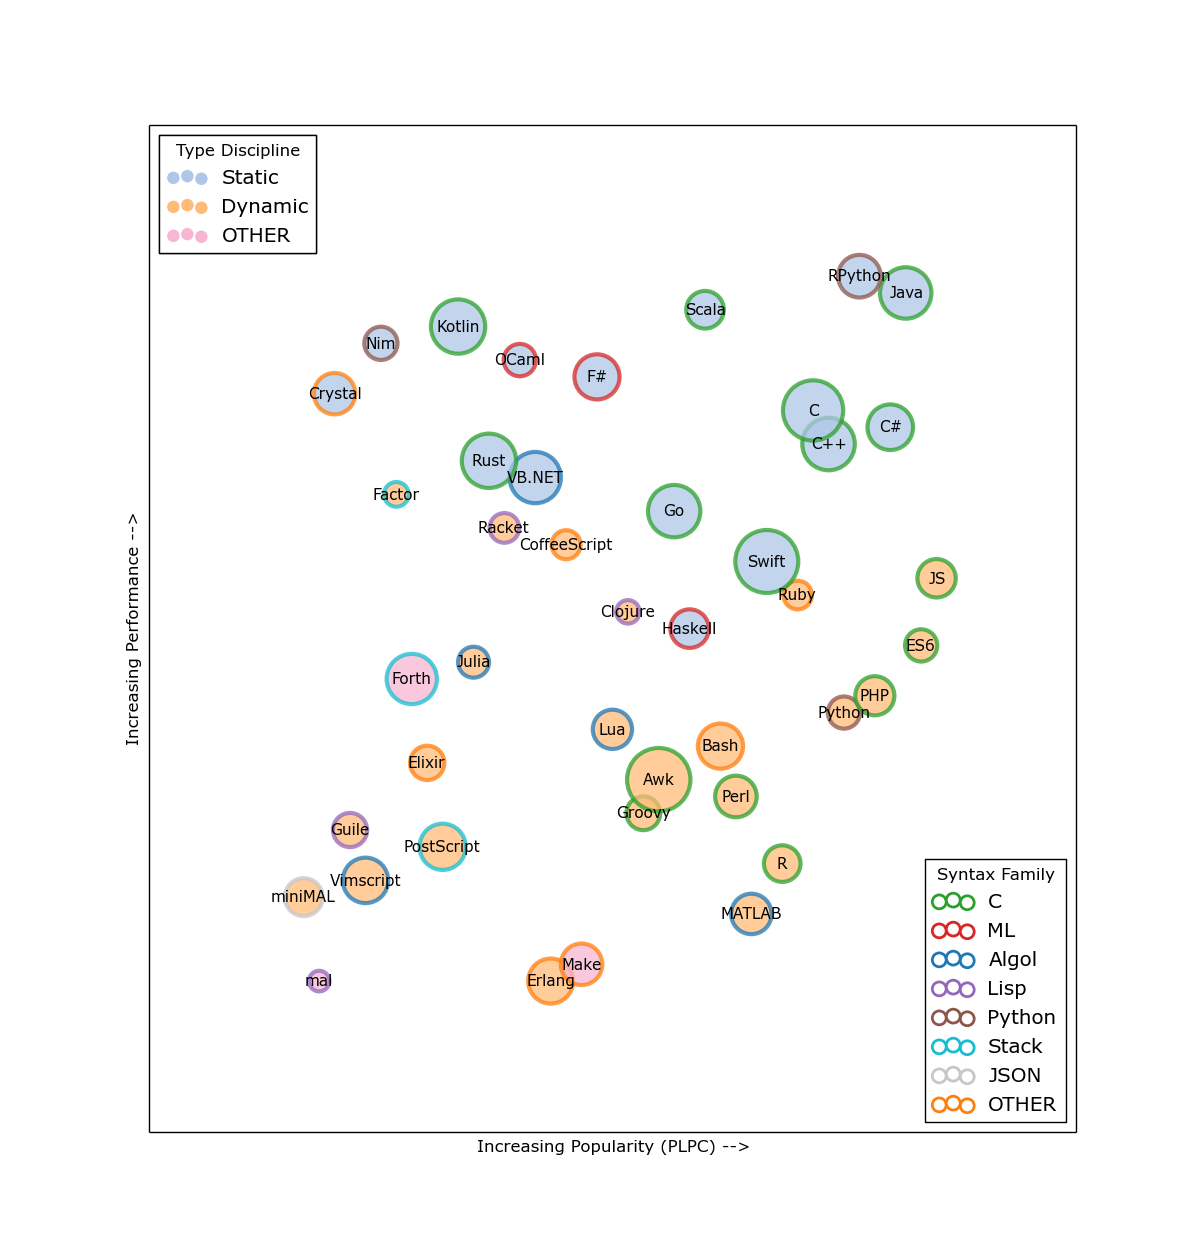
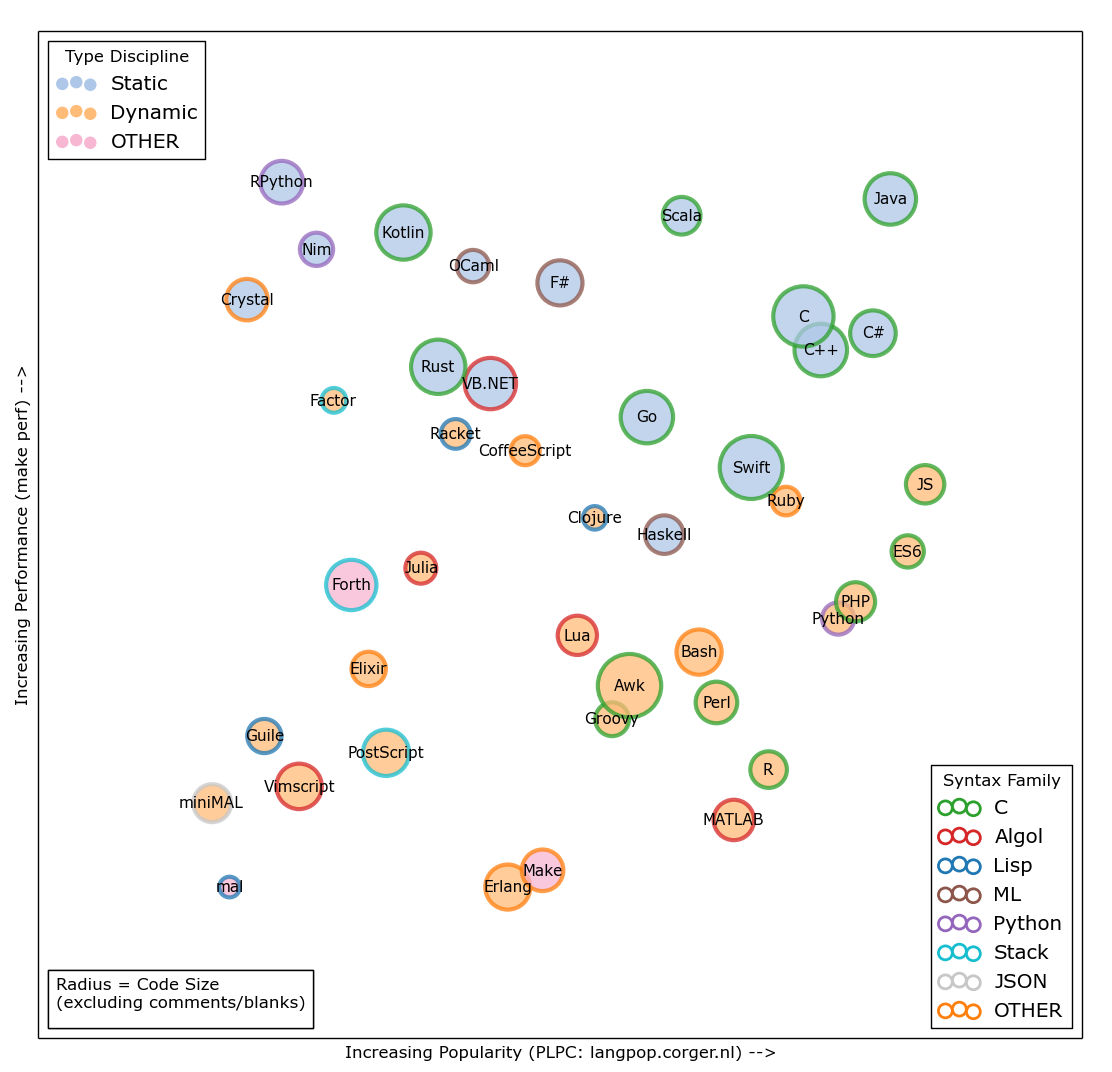
Add legend back and update language graph.

diff --git a/logos/graph_languages.py b/logos/graph_languages.py
@@ -79,34 +79,34 @@ for s in syntax_names:
                           edgecolor=syntax_colors[s],
                           label=s))
 
-###p2 = []
-###for t in type_names:
-###    p2.append(plt.scatter(None,None,
-###                          s=100,
-###                          c=type_colors[t],
-###                          edgecolor='w',
-###                          label=t))
-###
-###p3 = []
-####loc_sizes = [500, 1000, 1500]
-###loc_sizes = [1000]
-###loc_names = ["1 kLOC"]
-###for sz in loc_sizes:
-###    p3.append(plt.scatter(None,None,
-###                          s=sz,
-###                          c='grey',
-###                          edgecolor='w',
-###                          label=sz))
-###
-###legend1 = plt.legend(p1, syntax_names, title="Syntax Family", loc="lower right")
-###legend2 = plt.legend(p2, type_names, title="Type Discipline", loc="upper left")
-####legend3 = plt.legend(p3, loc_names, title="Radius = Code Size\n(excluding comments/blanks)", loc="lower left",
-####                     prop = {'size': 20})
-####legend3 = plt.legend(p3, loc_names, title="Radius = Code Size\n(excluding comments/blanks)", loc="lower left")
-###legend3 = plt.legend([], [], title="Radius = Code Size\n(excluding comments/blanks)", loc="lower left")
-###plt.gca().add_artist(legend1)
-###plt.gca().add_artist(legend2)
-###plt.gca().add_artist(legend3)
+p2 = []
+for t in type_names:
+    p2.append(plt.scatter(None,None,
+                          s=100,
+                          c=type_colors[t],
+                          edgecolor='w',
+                          label=t))
+
+p3 = []
+#loc_sizes = [500, 1000, 1500]
+loc_sizes = [1000]
+loc_names = ["1 kLOC"]
+for sz in loc_sizes:
+    p3.append(plt.scatter(None,None,
+                          s=sz,
+                          c='grey',
+                          edgecolor='w',
+                          label=sz))
+
+legend1 = plt.legend(p1, syntax_names, title="Syntax Family", loc="lower right")
+legend2 = plt.legend(p2, type_names, title="Type Discipline", loc="upper left")
+#legend3 = plt.legend(p3, loc_names, title="Radius = Code Size\n(excluding comments/blanks)", loc="lower left",
+#                     prop = {'size': 20})
+#legend3 = plt.legend(p3, loc_names, title="Radius = Code Size\n(excluding comments/blanks)", loc="lower left")
+legend3 = plt.legend([], [], title="Radius = Code Size\n(excluding comments/blanks)", loc="lower left")
+plt.gca().add_artist(legend1)
+plt.gca().add_artist(legend2)
+plt.gca().add_artist(legend3)
 
 plt.xlabel('Increasing Popularity (PLPC: langpop.corger.nl) -->')
 plt.xticks([])
